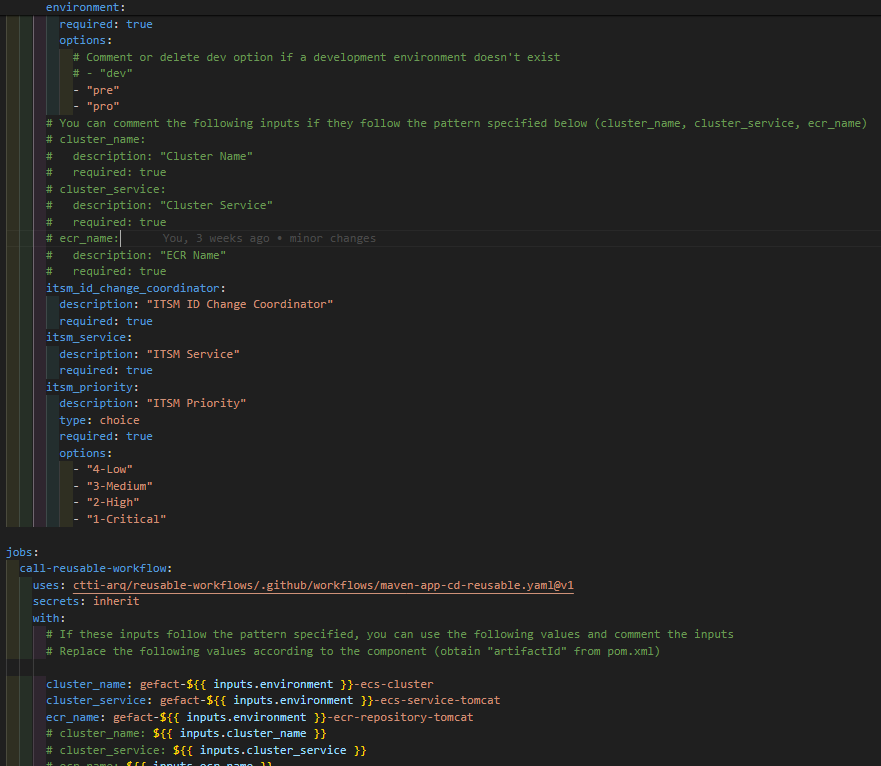
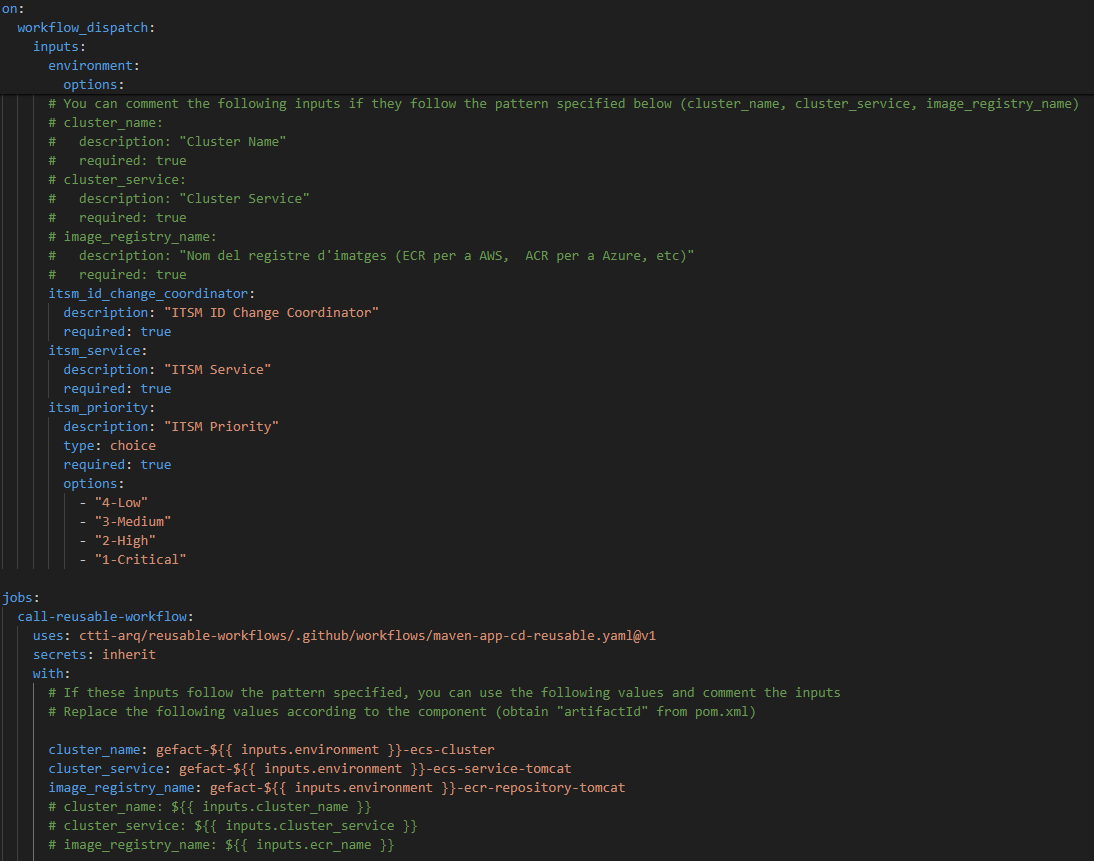
GHEC Revisió Documentació

diff --git a/content/drafts/ghec/gh-adopcion-modelo-ghec.md b/content/drafts/ghec/gh-adopcion-modelo-ghec.md
@@ -152,10 +152,10 @@ Per sol·licitar l'alta del projecte en el nou model cal realitzar una petició 
             * Comentar l'entorn retorn si no hi ha entorn de desenvolupament.
             * cluster_name: Nom del Clúster on es desplegarà l'aplicació.
             * cluster_service : Servei del Clúster on es desplegarà l'aplicació.
-            * ecr_name : Nom de l'Elastic Container Registry d'AWS.
+            * image_registry_name : Nom del registre d'imatges (ECR per a AWS,  ACR per a Azure, etc)
 
             
-              Si els paràmetres "cluster_name", "cluster_service" i "ecr_name" segueixen la nomenclatura indicada en els comentaris del workflow, s'hauran de comentar els inputs corresponents a aquests paràmetres ja que no seran necessaris. En aquest cas es definiran tal qual s'indica en els comentaris especificats en el propi workflow, de manera que es construeixi i es passi el nom com a variable depenent de l'entorn. Es mostra un exemple avall:
+              Si els paràmetres "cluster_name", "cluster_service" i "image_registry_name" segueixen la nomenclatura indicada en els comentaris del workflow, s'hauran de comentar els inputs corresponents a aquests paràmetres ja que no seran necessaris. En aquest cas es definiran tal qual s'indica en els comentaris especificats en el propi workflow, de manera que es construeixi i es passi el nom com a variable depenent de l'entorn. Es mostra un exemple avall:
 
 
               ![Exemple de variables canviades si segueixen la nomenclatura especificada](/images/GHEC/vars-to-change-example.png)
@@ -177,9 +177,9 @@ Per sol·licitar l'alta del projecte en el nou model cal realitzar una petició 
             * Comentar el entorn dev si no existeix entorn de desenvolupament.
             * cluster_name: Nom del Clúster on es desplegarà l'aplicació.
             * cluster_service : Servei del Clúster on es desplegarà l'aplicació.
-            * ecr_name : Nom del Elastic Container Registry de AWS.
+            * image_registry_name : Nom del registre d'imatges (ECR per a AWS,  ACR per a Azure, etc)
 
-              Si els paràmetres "cluster_name", "cluster_service" i "ecr_name" segueixen la nomenclatura indicada en els comentaris del workflow, s'hauran de comentar els inputs corresponents a aquests paràmetres ja que no seran necessaris. En aquest cas es definiran tal qual s'indica en els comentaris especificats en el propi workflow, de manera que es construeixi i es passi el nom com a variable depenent de l'entorn. Es mostra un exemple avall:
+              Si els paràmetres "cluster_name", "cluster_service" i "image_registry_name" segueixen la nomenclatura indicada en els comentaris del workflow, s'hauran de comentar els inputs corresponents a aquests paràmetres ja que no seran necessaris. En aquest cas es definiran tal qual s'indica en els comentaris especificats en el propi workflow, de manera que es construeixi i es passi el nom com a variable depenent de l'entorn. Es mostra un exemple avall:
 
 
               ![Exemple de variables canviades si segueixen la nomenclatura especificada](/images/GHEC/vars-to-change-example.png)
@@ -198,8 +198,7 @@ Per sol·licitar l'alta del projecte en el nou model cal realitzar una petició 
             * Comentar l'entorn dev si no hi ha entorn de desenvolupament.
             * terraform_version: Versió de Terraform.
 
-        Per a tots els repositoris és necessari modificar també el fitxer CODEOWNERS on es descomentarà l'última línia i es substituirà el label <TEAM_NAME> pel nom del grup **</departament/>-</entitat/>-</lote_mantenimiento/>-maintain**, on estaran els membres que podran executar aprovacions de Pull Request.
-
+        
         En el següent enllaç està disponible tota la informació de Workflows definits en el projecte [Definició de Workflows d'aplicatiu i d'Infraestructura](../gh-definicion-workflows).
 
   
@@ -273,12 +272,12 @@ Una vegada fet el setup inicial a nivell d'accesos i workflow, cal recalcar que 
             
       Execució de Workflows : Automàtic
       * APP CI on PR en realitzar la PR.  Genera l'artefacte, havent realitzat prèviament anàlisi de qualitat i seguretat.
-      * APP CI on Commit to develop, en realitzar el Commit, empaquetant el codi en una imatge Docker i pujant-la al registre d'imatges GitHub Packages.
+      * APP CI on Commit to develop, en realitzar el Commit, empaquetant el codi en una imatge de contenidor i pujant-la al registre d'imatges GitHub Packages.
             
       Resultat de l'operació :
       * Branca feature integrada en develop.
       * Codi validat per un Reviewer i per eines de qualitat i seguretat.
-      * Generació i pujada de la imatge Docker a GitHub Packages.
+      * Generació i pujada de la imatge de contenidor a GitHub Packages.
       * Tag tant del repo com de la imatge a app.0.0.1-SNAPSHOT.
 
   2. **Validació funcional d'artefacte en desenvolupament.**
@@ -326,7 +325,7 @@ Una vegada fet el setup inicial a nivell d'accesos i workflow, cal recalcar que 
             
       Resultat de l'operació :
       * Branca develop integrada en release.
-      * Re-Tag de la imatge Docker en GitHub Packages a app.0.0.1-RC (Release Candidate).
+      * Re-Tag de la imatge de contenidor en GitHub Packages a app.0.0.1-RC (Release Candidate).
             
 
   4. **Validació funcional d'artefacte en Preproducció**
@@ -370,7 +369,7 @@ Una vegada fet el setup inicial a nivell d'accesos i workflow, cal recalcar que 
             
       Resultat de l'operació :
       * Branca release integrada en master.
-      * Imatge Docker, a GitHub Packages, amb nou Tag per desplegament en Producció app.0.0.1 (Final).
+      * Imatge de contenidor, a GitHub Packages, amb nou Tag per desplegament en Producció app.0.0.1 (Final).
           
   6. **Desplegament d'aplicació a Producció**
       Una vegada hi ha l'artefacte disponible a GitHub Packages amb un tag que habilita la seva promoció a pro, i totes les validacions realitzades en entorns Preproductius, l'artefacte es pot desplegar en Producció
@@ -401,7 +400,8 @@ Una vegada fet el setup inicial a nivell d'accesos i workflow, cal recalcar que 
       
 + **Exemple de model de treball per a CI/CD per a Infraestructura**
 
-  En el següent exemple es mostra l'execució e2e d'un flux de treball d'implementació i desplegament d'Infraestructura, des que el desenvolupador realitza la seva implementació en una branca Feature, fins al desplegament a Producció.  En aquest cas i atès que, actualment, no es proporcionen entorns de Desenvolupament, s'integrarà directament a Release. 
+  En el següent exemple es mostra l'execució e2e d'un flux de treball d'implementació i desplegament d'Infraestructura, des que el desenvolupador realitza la seva implementació en una branca Feature, fins al desplegament a Producció.  En aquest cas i atès que, actualment, no es proporcionen entorns de Desenvolupament per a infraestructura per polítiques de CTTI (només pre-producció i producció), s'integrarà directament a Release.
+  
 
   L'accés a GHEC es realitzarà des de la URL:  [https://github.com/enterprises/gencat/](https://github.com/enterprises/gencat/).
 

diff --git a/content/drafts/ghec/model-gitflow-gitops.md b/content/drafts/ghec/model-gitflow-gitops.md
@@ -51,7 +51,7 @@ Aquest diagrama explica l'estratègia de control de versions recomanada (basada 
 
 - **main** -->  conté tot el codi que ha estat desplegat a producció - recull totes les versions "disponibles en live" i mai es treballa directament sobre elles.
 - **release** --> es fusiona des de develop, quan el codi està llest per a ser posat en producció - normalment es crea una versió candidata (RC) en aquest punt.
-  - Es desaconsella treballar directament en la branca release, ja que els errors detectats durant la validació dels canvis requeriran correccions en la branca feature corresponent i es fusionaran de nou a través de desenvolupament o suport per evitar la pèrdua de canvis posteriors.
+  - Es desaconsella treballar directament en la branca release, ja que els errors detectats durant la validació dels canvis requeriran correccions en la branca feature corresponent i es fusionaran de nou a través de desenvolupament per evitar la pèrdua de canvis posteriors.
   - Un cop la versió està llesta, es fusiona amb la branca master i s'etiqueta amb el nom de la versió.
 - **develop** --> és on es duu a terme la major part de l'activitat, tot i que no es treballa directament, sinó que es fusionen els canvis de les branques feature
 - **feature** --> tenen una durada curta, per permetre als desenvolupadors treballar en una característica específica de forma aïllada de la branca de desenvolupament, on poden fer commits directes i push - es fusionen amb la branca de desenvolupament.
@@ -83,25 +83,24 @@ Per a aquest model, la nomenclatura que es farà servir per als noms dels artefa
 
 ### Estratègia **estesa** de branques i merges
 
-Aquest diagrama explica l'estratègia de control de versions recomanada (basada en Git Flow):
+Aquest diagrama explica l'estratègia de control de versions estesa (basada en Git Flow):
 
 ![Model Gitflow extés](/images/GHEC/gitflow-extended-model.png)
 
 - **main** -->  conté tot el codi que ha estat desplegat a producció - recull totes les versions "disponibles en live" i mai es treballa directament sobre elles.
 - **release** --> es fusiona des de develop, quan el codi està llest per a ser desplegat en producció - normalment es crea una versió candidata (RC) en aquest punt.
-  - Es desaconsella treballar directament en la branca release, ja que els errors detectats durant la validació dels canvis requeriran correccions en la branca feature corresponent i es fusionaran de nou a través de desenvolupament o suport per evitar la pèrdua de canvis posteriors.
+  - Es desaconsella treballar directament en la branca release, ja que els errors detectats durant la validació dels canvis requeriran correccions en la branca feature corresponent i es fusionaran de nou a través de desenvolupament per evitar la pèrdua de canvis posteriors.
   - Un cop la versió està llesta, es fusiona amb la branca master i s'etiqueta amb el nom de la versió.
 - **develop** --> és on es duu a terme la major part de l'activitat, tot i que no es treballa directament, sinó que es fusionen els canvis de les branques feature.
 - **feature** --> tenen una durada curta, per permetre als desenvolupadors treballar en una característica específica de forma aïllada de la branca de desenvolupament, on poden fer commits directes i push - es fusionen amb la branca de desenvolupament.
 - **hotfix** --> es crea a partir de màster quan s'identifica en producció un error que requereix una correcció urgent. La branca hotfix té un cicle de publicació "accelerat" i s'ha de fusionar amb la branca de desenvolupament per no perdre cap canvi.
 
-Amb aquest model proposat, les úniques branques en què es treballa directament són les de feature i hotfix; la resta de branques evolucionen a través de fusions.
 
-Es recomanen les merge request en lloc de les fusions directes per a desenvolupaments complexos, ja que fomenten les revisions per parells al llarg del procés.
+La principal diferència amb el model **recomanat** és la presència de branques rellegides de mitjana o llarga durada.
 
-La "regla d'or" per a les fusions descendents és que cada canvi introduït en producció es fusioni també en desenvolupament.
-
-Per a aquest model, la nomenclatura que es farà servir per als noms dels artefactes serà la següent:
+Les branques de rellegiment són necessàries quan l'equip està treballant en un d'aquests escenaris:
+* L'equip ha de proporcionar suport tècnic a diverses versions anteriors durant algun temps (per exemple, períodes de garantia) És a dir, l'equip conserva l'estat de la rellegida en una branca independent, per la qual cosa pot proporcionar correccions d'errors a aquesta versió anterior. 
+* L'equip està treballant en diversos relleasos simultàniament. Si bé generalment això **no es recomana**, hi ha casos de grans projectes de transformació que poden requerir mantenir dues línies de desenvolupament alhora.
 
 - Per a la branca **master** --> major.minor.fix
 

diff --git a/content/drafts/ghec/gh-definicion-workflows.md b/content/drafts/ghec/gh-definicion-workflows.md
@@ -42,7 +42,7 @@ En canvi, si la PR es fes entre les branques develop-release, release-master, ho
 
 D'altra banda, si estem en temps de commit, existiran dos tipus de workflows depenent de la tipologia del component: Aplicació o Llibreria.  
 
-+ En el cas d'una **aplicació**, i partint de la base que **la imatge que es genera i es puja al registre d'imatges ha de ser immutable** en les següents fases, s'executaran els steps de compilació, empaquetat, dockerització, push al registre, CI/SAST/SCA (si no s'ha executat prèviament en temps de pull request), assignació de tag a l'imatge i al repositori.   
++ En el cas d'una **aplicació**, i partint de la base que **la imatge que es genera i es puja al registre d'imatges ha de ser immutable** en les següents fases, s'executaran els steps de compilació, empaquetat, creació de imatge de contenidor, push al registre, CI/SAST/SCA (si no s'ha executat prèviament en temps de pull request), assignació de tag a l'imatge i al repositori.   
 Els diferents steps es llançaran en funció de les branques involucrades en el procés tal i com s'observa en el diagrama.  
 **En cap moment es permetrà modificar la imatge generada en branca Development en treballar a Release o Master.**
 
